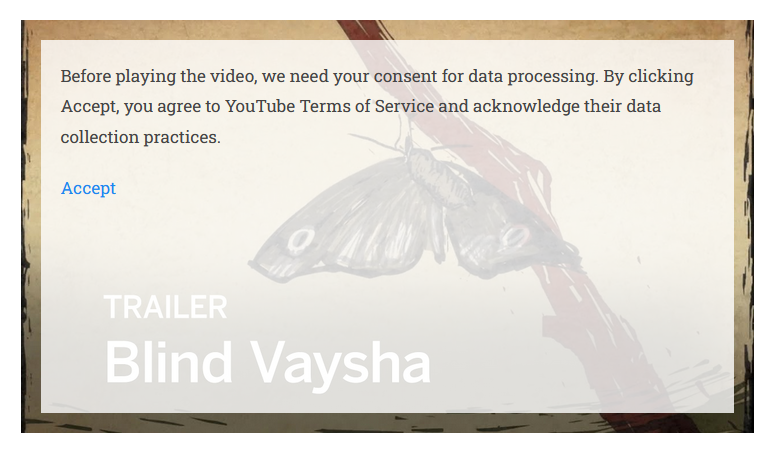
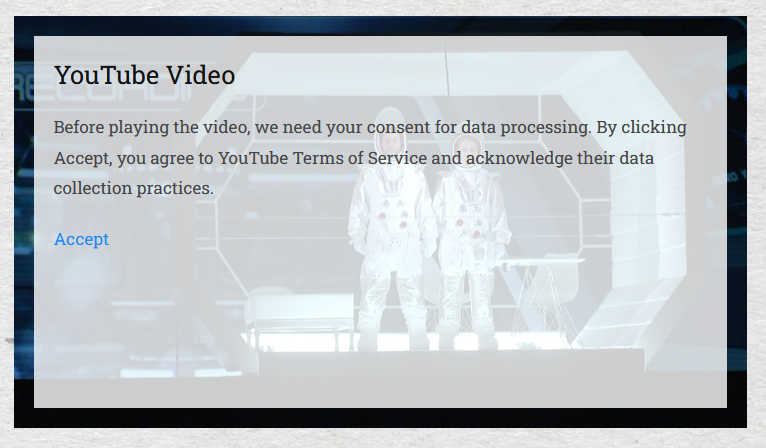
add consent message headline

diff --git a/TextformatterYouTubeConsent.module.php b/TextformatterYouTubeConsent.module.php
@@ -9,8 +9,8 @@
 namespace ProcessWire;
 
 class TextformatterYouTubeConsent extends Textformatter implements ConfigurableModule {
-	
-	public $formater;
+
+  public $formater;
 
   public static function getModuleInfo() {
     return array(
@@ -121,11 +121,13 @@ class TextformatterYouTubeConsent extends Textformatter implements ConfigurableM
    * @return string
    */
   public function cookie_html($video_url) {
-		$link_text = __('Accept');
+    $headline = __('YouTube Video');
+    $link_text = __('Accept');
     $text = __('Before playing the video, we need your consent for data processing. By clicking Accept, you agree to YouTube Terms of Service and acknowledge their data collection practices.');
     $html = "<div class='youtube-embed-consent' style='position: relative;'>";
     $html .= "<img src='{$this->get_youtube_video_poster($video_url)}' />";
     $html .= "<div class='youtube-embed-consent-message' style='position: absolute; top:20px;left:20px;right:20px;bottom:20px; box-sizing: border-box; padding: 20px; background: rgba(255, 255, 255, 0.8);'>";
+    $html .= "<h3>$headline</h3>";
     $html .= "<p>$text</p>";
     $html .= "<a href='./?youtube_consent=1'>{$link_text}</a>";
     $html .= "</div>";
